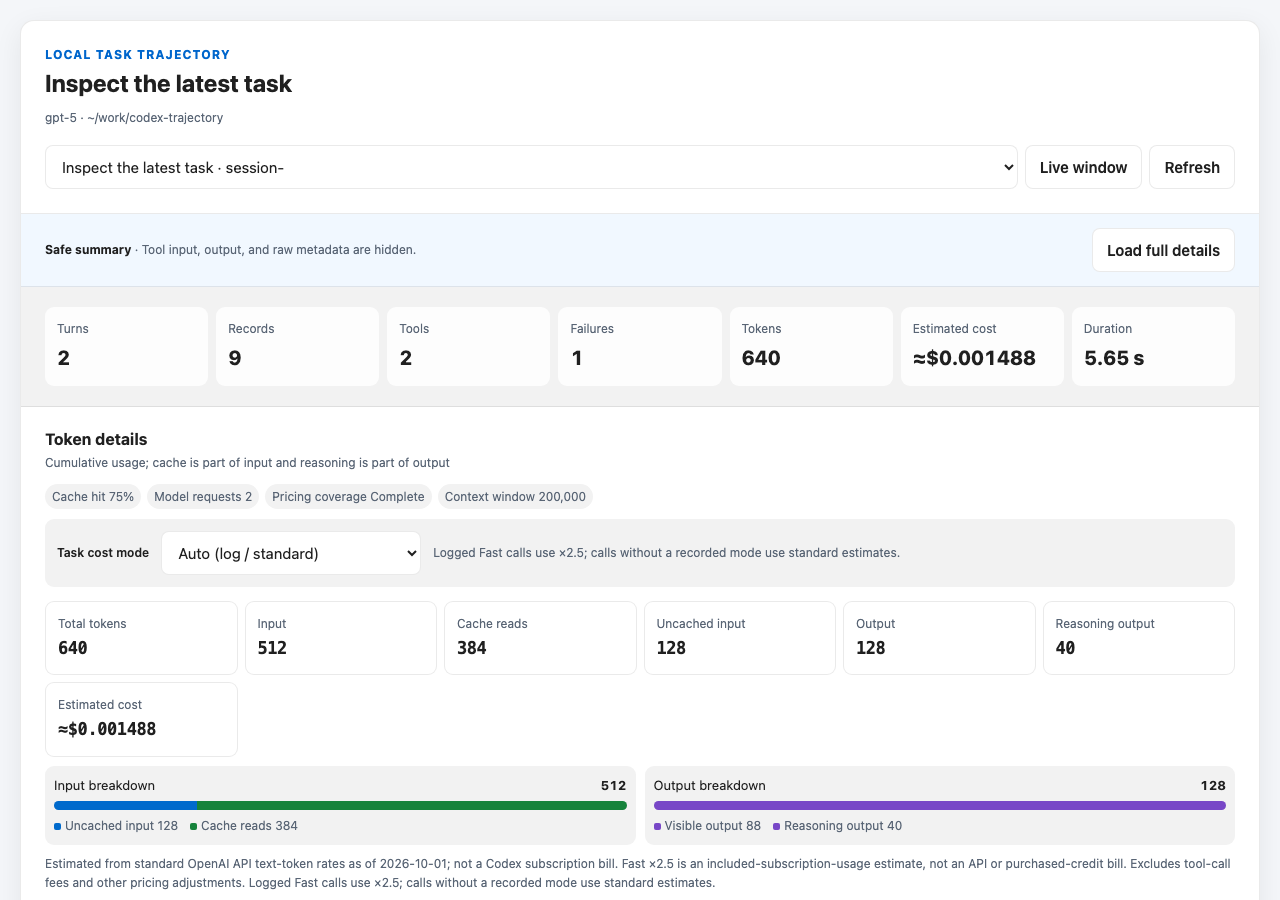
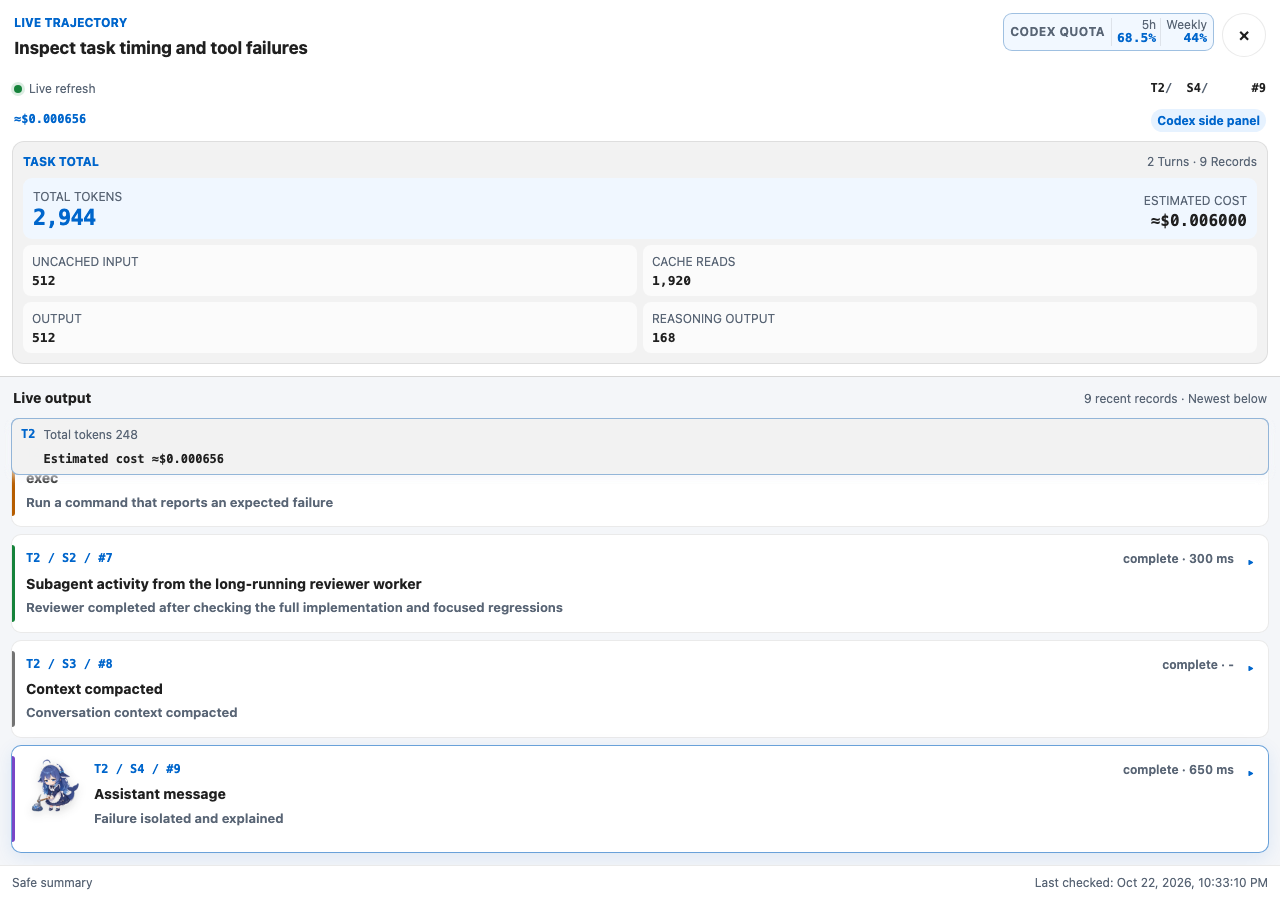
docs: refresh usage guides and demo screenshots (#18)

diff --git a/README.md b/README.md
@@ -6,92 +6,56 @@
 
 **English** · [简体中文](README.zh-CN.md)
 
-**Version 1.0.0** · October 2, 2026 · [Changelog](CHANGELOG.md#100---2026-10-02)
+See what a Codex task did, where time went, and how many tokens it used. Codex Trajectory turns local task logs into a searchable timeline and event ledger.
 
-See what happened in a Codex task, where time went, and how many tokens it used.
+- **Replay tasks:** inspect messages, saved reasoning summaries, tool calls, failures, subagent activity, and context compaction.
+- **Find slow work:** see durations and percentages for tools, estimated model time, and unattributed time in the selected task.
+- **Track usage:** view tokens, cache usage, and estimated costs, including all descendant subagents in task totals. Turn details show the selected agent only.
+- **Follow live activity:** watch new events, token totals, and the latest local quota sample.
 
-Codex Trajectory is a plugin that turns local Codex logs into a searchable event ledger and interactive timeline. Open it from a task's right panel or through the `show_codex_trajectory` MCP tool.
+![Task timing, token usage, timeline, and event details](plugins/codex-trajectory/assets/screenshots/overview-en.png)
 
-![Codex Trajectory: English viewer](plugins/codex-trajectory/assets/screenshots/overview-en.png)
-
-*Captured from the current viewer on October 2, 2026, using synthetic demo data.*
-
-## What you can see
-
-- **Task history:** messages, saved reasoning summaries, tool calls, subagent activity, and context compaction.
-- **Timing and failures:** event durations, execution status, and a timeline to locate slow calls.
-- **Current task timing:** active time for the open task, split into local/tool execution, estimated model/token time, and unattributed time, with percentages.
-- **Tokens and cost:** task totals include the main agent and all descendant subagents, with cache usage and estimated cost; turn details show the selected agent's own usage.
-- **Live activity:** a scrolling event stream, token totals, cost estimates, and the latest available local quota sample.
-- **History browsing:** search, event filters, task switching, and earlier records, including compressed and paginated logs.
-
-Steps are approximate, and reasoning summaries appear only when saved in the log. Cost figures are estimates based on bundled API prices, not a Codex subscription bill. Local quota samples may lag the account service.
-
-Task token and cost totals recursively include related active and archived subagent logs, counting each agent once. Each agent uses its recorded model and Fast mode for pricing. Live totals refresh when a subagent changes, even if the main agent is idle. Missing or unreadable subagent logs produce a warning that totals are incomplete; an oversized related log requires a larger explicit read budget. The event ledger, turn details, timing distribution, context window, and quota sample remain scoped to the selected agent or account as labeled.
+*Current viewer, captured October 22, 2026 with synthetic demo data.*
 
 ## Install
 
-You need **Codex** and **[uv](https://docs.astral.sh/uv/getting-started/installation/)**. The plugin runs on macOS, Linux, and Windows.
+Requires **Codex desktop** and **[uv](https://docs.astral.sh/uv/getting-started/installation/)**. Supports macOS, Linux, and Windows.
 
 ```sh
 codex plugin marketplace add icesixgod/codex-trajectory
 codex plugin add codex-trajectory@icesixgod
 ```
 
-Open a new Codex task to load the plugin. After updating an existing installation, fully quit and reopen Codex.
-
-Startup does not scan or prewarm task history. Logs are loaded when a viewer or tool requests them. Metadata discovery streams only bounded headers from compressed archives without creating decompression temporary files; viewing a selected compressed task still validates its complete history within the chosen read budget.
+After installing, open a new Codex task. After updating, fully quit and reopen Codex.
 
 ## Use
 
-1. Select **+ → More tools… → Plugins and MCPs → Codex Trajectory** in the task's right panel, or ask Codex to show the task trajectory using `show_codex_trajectory`.
-2. Browse the timeline and event ledger. Use search and filters to find a record; select it to inspect it.
-3. Click **Live window** to follow activity, or **Load earlier records** to browse history.
-4. In either opened page, find **Current task timing distribution** below the top statistics and click **Calculate task timing**. Use **Recalculate** for a new snapshot of this task.
+1. In the task's right panel, select **+ → More tools… → Plugins and MCPs → Codex Trajectory**. This opens the current task without a model turn; if task context is unavailable, choose a local task.
+2. Search or filter the event ledger, then click a record to inspect it. Use **Load earlier records** for more history.
+3. Click **Calculate task timing** for the timing breakdown, or **Live window** to follow new activity.
 
-Timing reads the selected task's complete history, independently of loaded pages, and reuses its loaded summary index when available. It excludes gaps between turns and counts overlapping tools once. Tool time includes local commands, external tools, and call waits. Model/token time is an estimate that includes network, queueing, and scheduling waits, rather than a measurement of pure token generation. Missing and invalid tool timing are reported separately from zero and sub-millisecond durations. Only a missing/invalid tool's possible execution window remains unattributed; other time can still be estimated. Zero and below-precision durations count as 0 ms in this breakdown without blocking the rest of a turn.
-
-The native task-panel entry opens without a model turn. With valid task context, the viewer opens that exact task; without available task context, it shows a local task selector. The plugin panel and MCP show tool use the same viewer, including current-task timing.
-
-You can also ask Codex:
+You can also open the viewer through `show_codex_trajectory` by asking Codex:
 
 > Show the safe trajectory summary for this Codex task.
 
-For logs larger than the default **512 MiB** read limit, choose a sufficient **Read limit (GB)** and click **Enable and retry**. The higher limit applies only to that task in the current panel; large logs take longer to scan.
+For MCP calls, pass an explicit `sessionId` to select a task. Without it, read/show tools use the most recently modified active task.
+
+Timing excludes gaps between turns and counts overlapping tools once. Model time includes network and queueing waits. Costs use bundled API prices and are estimates, not subscription charges; local quota samples may lag.
+
+If a log exceeds **512 MiB**, raise **Read limit (GB)** in the error panel and click **Enable and retry**. The limit applies only to that task in the current panel.
 
 ## Privacy
 
-The viewer starts with a **safe summary**: tool inputs, outputs, and raw metadata are hidden. **Load full details** asks for confirmation before exposing bounded details to the active conversation. Its checkbox can remember your choice for all tasks on this device; **Restore safe summary default** clears that preference. Live views always use safe summaries.
+Logs are read locally and remain unchanged. **Safe summary** hides tool inputs, outputs, and raw metadata; **Load full details** requires confirmation and can remember your choice. Live views always use safe summaries.
 
-Source logs remain unchanged. Base instructions and encrypted reasoning are never returned. The Python runtime has no telemetry or application network requests; `uv` may download Python and dependencies during setup.
+Data returned through Codex may enter the active conversation. See the [privacy policy](PRIVACY.md) for details.
 
-See [PRIVACY.md](PRIVACY.md) for the complete privacy model.
+## Documentation
 
-## MCP tools
-
-| Tool | Use |
-| --- | --- |
-| `list_codex_sessions` | Find recent local tasks. |
-| `get_codex_project_timing` | Read timing for the selected task only; original tool name retained for compatibility. |
-| `get_codex_trajectory` | Read structured trajectory data. |
-| `show_codex_trajectory` | Open the interactive viewer. |
-
-Pass an explicit `sessionId` to read a specific task. Without one, the public read/show tools select the most recently modified active task, which may differ from the current task. See the [interface reference](docs/interface.md) for arguments, pagination, and schemas.
-
-## Development
-
-```sh
-uv sync --group dev
-uv run ruff format --check .
-uv run ruff check .
-uv run mypy
-uv run pytest
-```
-
-See [CONTRIBUTING.md](CONTRIBUTING.md) for browser tests and release checks, [the native viewer guide](docs/native-viewer.md) for migration and troubleshooting, and [CHANGELOG.md](CHANGELOG.md) for changes.
+[MCP tools and API](docs/interface.md) · [Troubleshooting](docs/native-viewer.md) · [Development](CONTRIBUTING.md) · [Changelog](CHANGELOG.md)
 
 ## License and credits
 
-[MIT](LICENSE). Parts of the ledger, timeline, and inspector are adapted from DeepSeek's MIT-licensed [DeepSeek Harness trajectory UI](https://github.com/deepseek-ai/deepseek-harness/tree/master/packages/client/ui-trajectory), copyright © 2026 DeepSeek. See [NOTICE](NOTICE) and the [upstream license](LICENSES/DeepSeek-Harness.txt). This is an independent project, not affiliated with or endorsed by DeepSeek.
+[MIT](LICENSE). Parts of the UI are adapted from [DeepSeek Harness](https://github.com/deepseek-ai/deepseek-harness/tree/master/packages/client/ui-trajectory), © 2026 DeepSeek. See [NOTICE](NOTICE) and the [upstream license](LICENSES/DeepSeek-Harness.txt). Independently maintained; not affiliated with DeepSeek.
 
 Friendly link: [Linux.do](https://linux.do/)

diff --git a/README.zh-CN.md b/README.zh-CN.md
@@ -6,92 +6,56 @@
 
 [English](README.md) · **简体中文**
 
-**版本 1.0.0** · 2026 年 10 月 2 日 · [更新日志](CHANGELOG.md#100---2026-10-02)
+看清 Codex 任务做了什么、时间花在哪里、用了多少 Token。Codex Trajectory 将本地任务日志整理成可搜索的时间轴和事件账本。
 
-看清 Codex 任务做了什么、时间花在哪里、用了多少 Token。
+- **回看过程：**查看消息、已保存的推理摘要、工具调用、失败、子代理活动和上下文压缩。
+- **定位耗时：**展示当前任务中工具执行、模型估算和未归因时间的时长与占比。
+- **统计用量：**查看 Token、缓存命中和估算费用；任务总量包含所有层级子代理，轮次明细仅显示当前代理。
+- **跟随实时活动：**查看新增事件、Token 总量和本地最新额度采样。
 
-Codex Trajectory 将本地 Codex 日志整理成可搜索的事件账本和交互时间轴，可从任务右侧插件面板打开，也可通过 `show_codex_trajectory` MCP 工具打开。
+![当前任务的耗时分布、Token 用量、时间轴与事件详情](plugins/codex-trajectory/assets/screenshots/desktop-zh-CN.png)
 
-![Codex Trajectory 中文查看器](plugins/codex-trajectory/assets/screenshots/desktop-zh-CN.png)
-
-*2026 年 10 月 2 日使用当前查看器截取，内容为演示数据。*
-
-## 能看到什么
-
-- **任务过程：**消息、日志中保存的推理摘要、工具调用、子代理活动和上下文压缩。
-- **耗时与失败：**事件耗时、执行状态，以及帮助定位慢调用的时间轴。
-- **当前任务耗时分布：**统计当前打开任务的活跃耗时，展示本地／工具执行、模型／Token 估算、未归因时间及占比。
-- **Token 与费用：**任务总量包含主代理及所有层级子代理，展示缓存使用情况和估算费用；轮次明细保留当前代理自身的用量。
-- **实时活动：**滚动事件流、Token 总量、估算费用，以及本地最新可用的额度采样。
-- **历史浏览：**搜索、事件筛选、任务切换和更早记录，支持压缩日志与分页历史。
-
-步骤划分是近似值，推理摘要仅在日志保存了摘要时显示。费用按内置 API 价格估算，不等于 Codex 订阅账单；本地额度采样也可能滞后于账户实际状态。
-
-任务 Token 和费用会递归汇总有关联的活跃及已归档子代理日志，每个代理只计一次，分别按其记录的模型及 Fast 模式估算费用。子代理用量变化时，即使主代理空闲，实时总量也会更新。缺失或不可读的子代理日志会提示总量不完整；关联日志超过读取上限时，需要显式提高读取预算。事件账本、轮次明细、耗时分布、上下文窗口与额度采样继续按页面标注展示当前代理或账户的数据。
+*2026 年 10 月 22 日截取当前界面，使用合成演示数据。*
 
 ## 安装
 
-需要 **Codex** 和 **[uv](https://docs.astral.sh/uv/getting-started/installation/)**，支持 macOS、Linux 和 Windows。
+需要 **Codex 桌面版**和 **[uv](https://docs.astral.sh/uv/getting-started/installation/)**，支持 macOS、Linux 和 Windows。
 
 ```sh
 codex plugin marketplace add icesixgod/codex-trajectory
 codex plugin add codex-trajectory@icesixgod
 ```
 
-安装后新建一个 Codex 任务以加载插件。更新已有安装后，请完整退出并重新打开 Codex。
-
-启动时不扫描或预热任务历史，打开查看器或调用工具后才加载日志。查找任务元数据时，压缩归档仅读取有上限的头部，不创建解压临时文件；查看选定压缩任务时，仍在所选读取预算内完整校验其历史。
+安装后新建一个 Codex 任务。更新插件后，请完整退出并重新打开 Codex。
 
 ## 使用
 
-1. 在任务右侧面板中选择 **+ → More tools… → Plugins and MCPs → Codex Trajectory**，或让 Codex 使用 `show_codex_trajectory` 展示任务轨迹。
-2. 浏览时间轴和事件账本，用搜索与筛选定位记录，点击记录查看详情。
-3. 点击 **实时小窗**跟随任务活动，或点击**加载更早记录**浏览历史。
-4. 两种方式打开的页面均在顶部统计卡片下方提供**当前任务耗时分布**。点击**统计当前任务耗时**，即可查看本任务的耗时与占比；点击**重新统计**获取最新快照。
+1. 在任务右侧面板选择 **+ → More tools… → Plugins and MCPs → Codex Trajectory**，直接打开当前任务，无需触发模型对话；无法获取任务上下文时，手动选择本地任务。
+2. 搜索或筛选事件，点击记录查看详情；点击**加载更早记录**浏览历史。
+3. 点击**统计当前任务耗时**查看耗时分布，或点击**实时小窗**跟随新增活动。
 
-耗时统计仅读取当前任务的完整历史，不受当前已加载分页影响，并优先复用已加载的摘要索引。统计排除轮次间空档，并行工具的重叠时间只计算一次。工具侧包括本地命令、外部工具及调用等待。模型／Token 耗时是估算，包含网络、排队和调度等待，不能代表纯 Token 生成时间。工具计时区分缺失、无效、零值和低于 1 毫秒；缺失或无效计时只将可能执行区间保留为未归因，其余时间继续估算。零值和低于精度的耗时在分布中按 0 毫秒处理，不再阻塞整轮估算。
-
-原生任务面板入口不触发模型对话。有有效任务上下文时，查看器精确打开该任务；任务上下文不可用时，显示本地任务选择器。插件面板与 MCP 展示工具使用相同页面，均包含当前任务耗时统计。
-
-也可以直接对 Codex 说：
+也可以让 Codex 通过 `show_codex_trajectory` 打开查看器：
 
 > 展示当前 Codex 任务的安全轨迹摘要。
 
-日志超过默认 **512 MiB** 读取上限时，设置足够的**读取上限（GB）**并点击**启用并重试**。提高后的上限仅对当前面板中的该任务生效；大日志首次扫描需要更长时间。
+通过 MCP 调用时，请传入 `sessionId` 指定任务；未指定时，读取和展示工具默认选择最近修改的活跃任务。
+
+耗时统计排除轮次间空档，并行工具重叠时间只计一次；模型时间包含网络和排队等待。费用按内置 API 价格估算，不等于订阅账单；本地额度采样可能滞后。
+
+日志超过 **512 MiB** 时，可在错误提示中提高**读取上限（GB）**并点击**启用并重试**，仅对当前面板中的该任务生效。
 
 ## 隐私
 
-查看器默认显示**安全摘要**，隐藏工具输入、输出和原始元数据。点击**加载完整详情**后，需要确认才会向当前对话提供有长度限制的详情。确认框中的选项可以为本机所有任务记住这一选择；**恢复安全摘要默认值**可清除偏好。实时视图始终使用安全摘要。
+日志在本地读取，源文件保持不变。默认的**安全摘要**隐藏工具输入、输出和原始元数据；**加载完整详情**需要确认，也可记住这一选择。实时视图始终使用安全摘要。
 
-插件不修改源日志，也不返回基础指令或加密推理。Python 运行时不含遥测、不发起应用网络请求；首次配置时，`uv` 可能下载 Python 和依赖。
+通过 Codex 返回的数据可能进入当前对话，详见[隐私说明](PRIVACY.md)。
 
-完整隐私说明见 [PRIVACY.md](PRIVACY.md)。
+## 文档
 
-## MCP 工具
-
-| 工具 | 用途 |
-| --- | --- |
-| `list_codex_sessions` | 查找近期本地任务。 |
-| `get_codex_project_timing` | 仅读取选定任务的耗时分布；保留原工具名以兼容已有调用。 |
-| `get_codex_trajectory` | 读取结构化轨迹数据。 |
-| `show_codex_trajectory` | 打开交互查看器。 |
-
-读取指定任务时，请明确传入 `sessionId`。公共读取和展示工具未指定 ID 时，会选择最近修改的活跃任务，可能与当前任务不同。参数、分页和数据结构见[接口文档](docs/interface.md)。
-
-## 开发
-
-```sh
-uv sync --group dev
-uv run ruff format --check .
-uv run ruff check .
-uv run mypy
-uv run pytest
-```
-
-浏览器测试与发布检查见 [CONTRIBUTING.md](CONTRIBUTING.md)，迁移和故障排查见[原生查看器指南](docs/native-viewer.md)，版本变化见 [CHANGELOG.md](CHANGELOG.md)。
+[MCP 工具与接口](docs/interface.md) · [故障排查](docs/native-viewer.md) · [开发指南](CONTRIBUTING.md) · [更新日志](CHANGELOG.md)
 
 ## 许可与致谢
 
-采用 [MIT 许可证](LICENSE)。事件账本、时间轴和检查器的部分实现改编自 DeepSeek 的 MIT 许可项目 [DeepSeek Harness trajectory UI](https://github.com/deepseek-ai/deepseek-harness/tree/master/packages/client/ui-trajectory)，版权为 © 2026 DeepSeek。详见 [NOTICE](NOTICE) 和[上游许可证](LICENSES/DeepSeek-Harness.txt)。本项目独立维护，与 DeepSeek 不存在隶属或背书关系。
+采用 [MIT 许可证](LICENSE)。部分界面改编自 [DeepSeek Harness](https://github.com/deepseek-ai/deepseek-harness/tree/master/packages/client/ui-trajectory)，© 2026 DeepSeek，详见 [NOTICE](NOTICE) 和[上游许可证](LICENSES/DeepSeek-Harness.txt)。本项目独立维护，与 DeepSeek 无隶属关系。
 
 友情链接：[Linux.do](https://linux.do/)

diff --git a/plugins/codex-trajectory/README.md b/plugins/codex-trajectory/README.md
@@ -2,32 +2,24 @@
 
 **English** · [简体中文](#简体中文)
 
-**Version 1.0.0** · October 2, 2026 · [Changelog](../../CHANGELOG.md#100---2026-10-02)
+View local Codex tasks as a searchable timeline and event ledger. Inspect tool calls and failures, calculate task timing, track tokens and estimated costs including descendant subagents, and follow live activity.
 
-View local Codex task history as an interactive timeline and event ledger, with timing, tokens, estimated costs, and live activity.
+Open **+ → More tools… → Plugins and MCPs → Codex Trajectory** in the task's right panel, or use `show_codex_trajectory`. The panel opens the current task without a model turn; if task context is unavailable, choose a local task.
 
-**Calculate task timing** reads only the currently open task's complete history and reuses its loaded summary index. View durations and percentages for local/tool execution, estimated model/token time, and unattributed time. Gaps between turns are excluded and overlapping tools count once. Model timing includes response/network waits and does not isolate pure token generation.
+Safe summaries hide tool inputs and outputs. Full details require confirmation; live views always use safe summaries. Source logs remain unchanged. Timing and costs are estimates.
 
-Coverage distinguishes missing, invalid, zero, and sub-millisecond tool durations. Zero and below-precision values do not block model estimates; missing/invalid tools reserve only their possible execution windows as unattributed. Public event durations keep their existing display format.
+After updating, fully quit and reopen Codex.
 
-Choose **+ → More tools… → Plugins and MCPs → Codex Trajectory** in the task's right panel, or open the trajectory through the `show_codex_trajectory` MCP tool. Both pages include **Current task timing distribution** below the top statistics. The native task-panel entry opens without a model turn. Valid task context opens that exact task's safe summary; unavailable context shows a local task selector. Full details require confirmation, and live views always use safe summaries. Source logs remain unchanged.
-
-After updating an existing installation, fully quit and reopen Codex to reload the plugin registration.
-
-See the [English README](../../README.md) for installation, screenshots, usage, and privacy. Technical details are in the [interface reference](../../docs/interface.md) and [native viewer guide](../../docs/native-viewer.md).
+See the [English README](../../README.md) for installation, screenshots, and usage, or the [interface reference](../../docs/interface.md) for MCP tools.
 
 ## 简体中文
 
-**版本 1.0.0** · 2026 年 10 月 2 日 · [更新日志](../../CHANGELOG.md#100---2026-10-02)
+将本地 Codex 任务展示为可搜索的时间轴和事件账本。查看工具调用与失败、统计任务耗时、汇总包含子代理的 Token 和估算费用，并跟随实时活动。
 
-将本地 Codex 任务历史展示为交互时间轴和事件账本，查看耗时、Token、估算费用和实时活动。
+在任务右侧面板选择 **+ → More tools… → Plugins and MCPs → Codex Trajectory**，或使用 `show_codex_trajectory`。面板直接打开当前任务，无需触发模型对话；无法获取任务上下文时，手动选择本地任务。
 
-点击**统计当前任务耗时**，仅读取本任务的完整历史并复用已加载的摘要索引。展示本地／工具执行、模型／Token 估算和未归因时间的时长与占比；排除轮次间空档，并行工具的重叠时间只计算一次。模型时间包含响应及网络等待，不能代表纯 Token 生成耗时。
+默认安全摘要隐藏工具输入与输出，完整详情需要确认，实时视图始终使用安全摘要。源日志保持不变，耗时和费用均为估算。
 
-计时覆盖区分缺失、无效、零值和低于 1 毫秒的工具耗时。零值及低于精度的耗时不阻塞模型估算；缺失／无效工具仅将可能执行区间保留为未归因。事件耗时沿用原有显示格式。
+更新后，请完整退出并重新打开 Codex。
 
-在任务右侧面板中选择 **+ → More tools… → Plugins and MCPs → Codex Trajectory**，或通过 `show_codex_trajectory` MCP 工具打开轨迹。两种页面均在顶部统计卡片下方提供**当前任务耗时分布**。原生任务面板入口不触发模型对话。有有效任务上下文时，精确展示该任务的安全摘要；上下文不可用时，显示本地任务选择器。完整详情需要确认，实时视图始终使用安全摘要，源日志保持不变。
-
-更新已有安装后，请完整退出并重新打开 Codex，以重新加载插件注册。
-
-安装、截图、使用和隐私说明见[中文 README](../../README.zh-CN.md)。技术细节见[接口文档](../../docs/interface.md)和[原生查看器指南](../../docs/native-viewer.md)。
+安装、截图和使用方法见[中文 README](../../README.zh-CN.md)，MCP 工具见[接口文档](../../docs/interface.md)。
